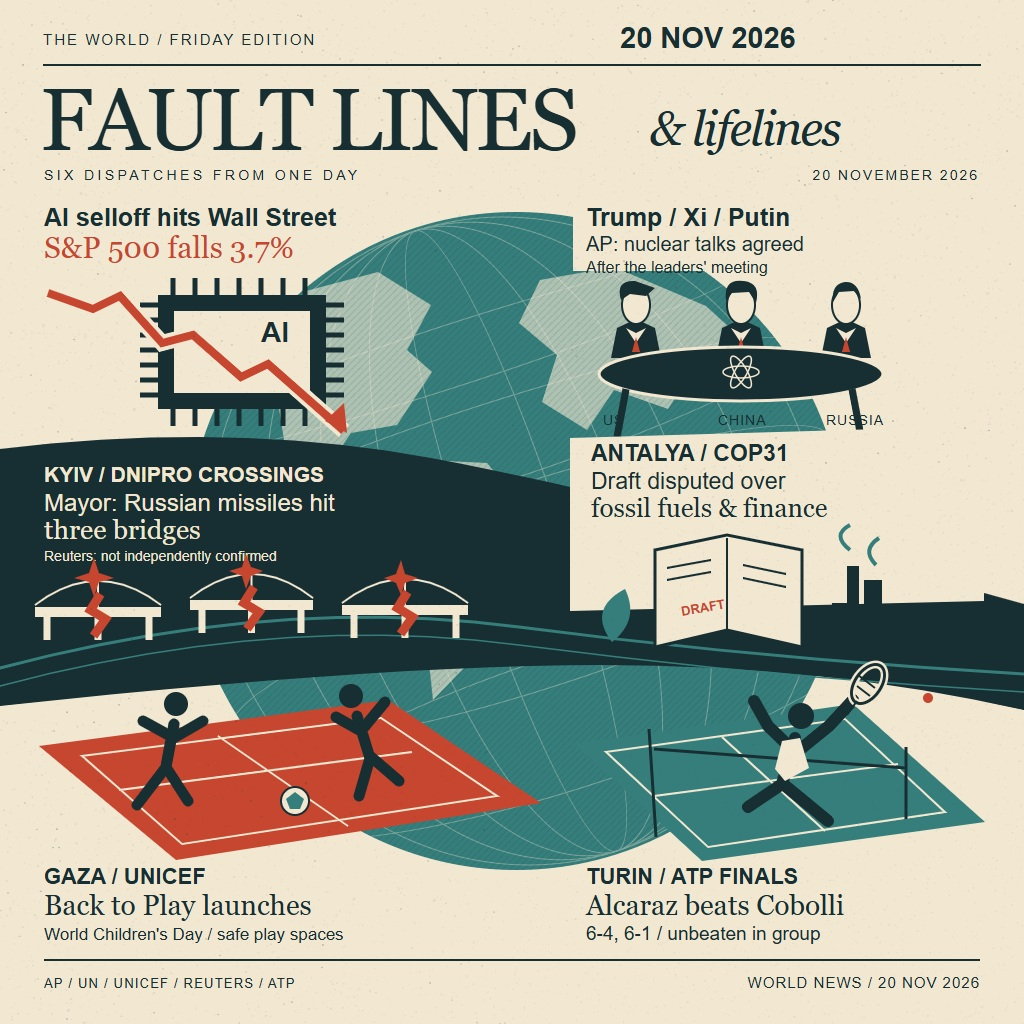
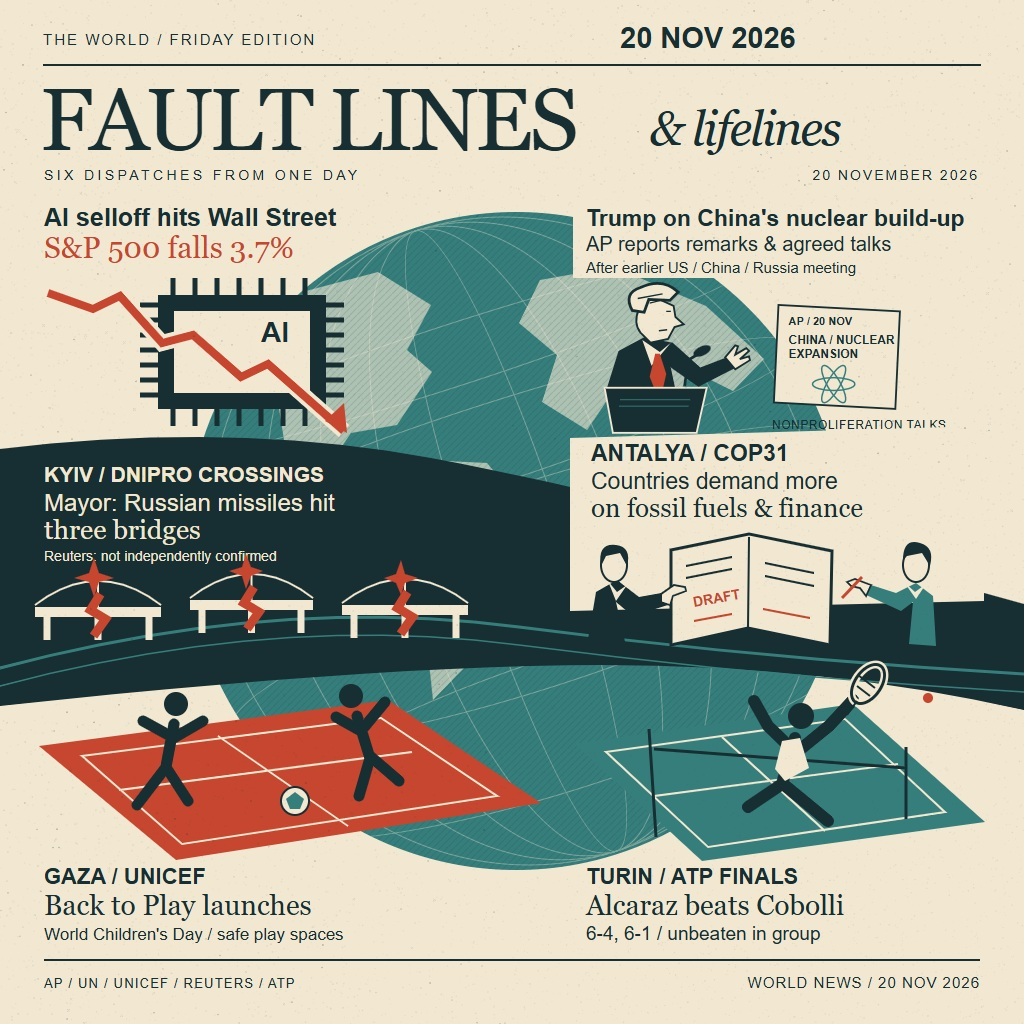
Clarify reported nuclear remarks and depict COP31 draft revision demands

Changed region(s): [[0.5625, 0.1875, 0.9375, 0.625]]

diff --git a/README.md b/README.md
@@ -2,7 +2,7 @@
 
 A revised original editorial cover for **20 November 2026**, retaining the first edition in Git history. Six scenes share one world and river-stage: AI-stock selloff, reported nuclear talks, Kyiv bridge strikes, disputed COP31 draft, UNICEF's Gaza campaign, and Alcaraz's Turin result. The shared composition does not assert causal links.
 
-The revision uses specific actors, actions and places rather than generic labels. Three diplomats are symbolic retrospective figures, not a summit on this date. Kyiv includes the mayor's attribution and Reuters' verification limit. The sports scene is the group-stage result, not a tournament victory. Children have dignified movement and space without graphic harm.
+The revision uses specific actors, actions and places rather than generic labels. The revised nuclear scene shows one symbolic speaker and an AP report, not a three-leader summit. The microphone is an editorial metaphor for reported remarks, not a documented venue or press event. Kyiv includes the mayor's attribution and Reuters' verification limit. The sports scene is the group-stage result, not a tournament victory. Children have dignified movement and space without graphic harm.
 
 ## Run
 `node main.ts` copies the shipped JPEG to `/output/entry.png`. JPEG bytes are allowed under that contract name. Set `MAKEFUN_OUTPUT_DIR` for local output. Standard library only, no network.
@@ -16,3 +16,6 @@ Tool paths come from `MAKEFUN_ENV`, defaulting to the supplied public environmen
 `node tests/acceptance.mjs` checks two fresh output runs for exact bytes, artifact naming, JPEG signature/end marker, byte cap, full Chrome decoding and dimensions. It also opens the SVG offline, rejects external resource requests and compares its Chrome rendering with the shipped JPEG. Rendering twice is additionally checked during development for seeded reproducibility.
 
 See SOURCES.md for dated evidence and caveats. MIT licensed. Authorized host handles free submission separately; this code accesses no account APIs.
+
+## Feedback-led round 1
+The best graded edition remains in Git at a7ecf5c (official provisional 97.7198; supplied current cutoff 98.9221). This round replaces the ambiguous three-leader table with Trump discussing China's nuclear expansion, with reported talks explicitly following an earlier meeting. COP31 now shows delegates seeking draft revisions, not just energy symbols. The host obtains the next official score and retains the highest-scoring version; no improvement in score is claimed before that result.

diff --git a/SOURCES.md b/SOURCES.md
@@ -17,3 +17,6 @@ The person-started revision additionally uses supplied public news-revision-rese
 - **Turin, 20 November 2026:** Carlos Alcaraz defeated Flavio Cobolli 6-4, 6-1, completing a 3-0 group stage and setting up a semi-final against Ben Shelton. [Official ATP report by Andy West](https://www.nittoatpfinals.com/en/news/alcaraz-cobolli-nitto-atp-finals-2026-friday). Supplied evidence: full official report opened and read. The semi-final was scheduled for 21 November and is not shown as played. No tournament win is claimed. The player is an original symbolic drawing, not a traced portrait.
 
 The optional Nations League draw story was not used. All six stories concern 20 November; stories or dates from reference-image verdicts were not adopted. The original four stories and their research limitations remain unchanged above.
+
+## Nuclear-scene clarification and COP31 action
+The AP fact supports Trump's reported remarks about China's nuclear expansion and agreed nonproliferation talks following the earlier leaders' meeting. The revised single-speaker drawing and report sheet avoid implying a trilateral summit on 20 November. The microphone and unsigned briefing sheet are symbolic, not claims about a specific venue, transcript, quote or document. No new diplomatic facts were added. COP31 delegates and revision marks symbolize the supported demand for stronger fossil-fuel language and climate finance; there is no completed agreement, signature or official seal.
